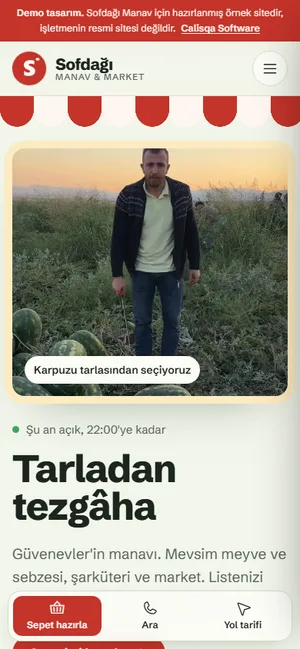
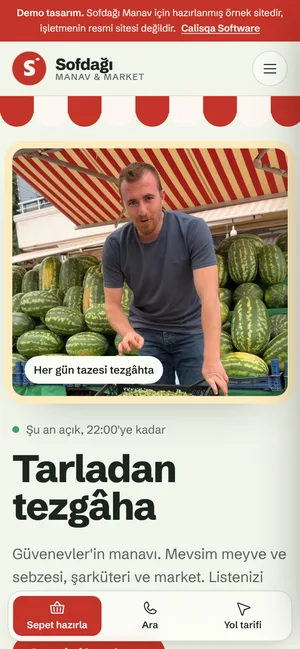
Sofdağı: bıçaklı tarla fotoğrafı yerine tezgâh fotoğrafı

diff --git a/sofdagi-manav/index.html b/sofdagi-manav/index.html
@@ -9,7 +9,7 @@
 <meta name="theme-color" content="#f2f5ea">
 <meta property="og:title" content="Sofdağı Manav &amp; Market | Güvenevler, Gaziantep">
 <meta property="og:description" content="Güvenevler&#x27;in manavı. Mevsim meyve ve sebzesi, şarküteri. Sepetinizi hazırlayın, WhatsApp&#x27;tan gönderin.">
-<meta property="og:image" content="img/tarla-gunbatimi.webp">
+<meta property="og:image" content="img/tezgah-karpuz.webp">
 <link rel="icon" href="img/logo.webp">
 <link rel="preconnect" href="https://fonts.googleapis.com">
 <link rel="preconnect" href="https://fonts.gstatic.com" crossorigin>
@@ -18,7 +18,7 @@
 <link rel="stylesheet" href="https://unpkg.com/@phosphor-icons/web@2.1.1/src/regular/style.css">
 <link rel="stylesheet" href="https://unpkg.com/@phosphor-icons/web@2.1.1/src/fill/style.css">
 <link rel="stylesheet" href="assets/style.css">
-<link rel="preload" as="image" href="img/tarla-gunbatimi.webp">
+<link rel="preload" as="image" href="img/tezgah-karpuz.webp">
 <script type="application/ld+json">{"@context": "https://schema.org", "@type": "GroceryStore", "name": "Sofdağı Manav & Market", "telephone": "+905380800704", "address": {"@type": "PostalAddress", "streetAddress": "Güvenevler Mah. 29026 Nolu Cd. No:35/1", "addressLocality": "Şehitkamil", "addressRegion": "Gaziantep", "postalCode": "27560", "addressCountry": "TR"}, "geo": {"@type": "GeoCoordinates", "latitude": 37.091622, "longitude": 37.3368643}, "openingHours": "Mo-Su 08:00-22:00"}</script>
 </head>
 <body class="page-index">
@@ -44,7 +44,7 @@
 <div class="tente" aria-hidden="true"></div>
 <section class="hero" aria-labelledby="h1">
   <div class="wrap">
-    <div class="tall rv"><img src="img/tarla-gunbatimi.webp" alt="Gün batımında karpuz tarlasında Sofdağı'nın sahibi" fetchpriority="high"><span>Karpuzu tarlasından seçiyoruz</span></div>
+    <div class="tall rv"><img src="img/tezgah-karpuz.webp" alt="Sofdağı Manav'ın tentesi altında karpuz ve taze bakla kasaları" fetchpriority="high"><span>Her gün tazesi tezgâhta</span></div>
     <div>
       <p class="status rv" data-status><span class="dot" aria-hidden="true"></span><span>Her gün 08:00 - 22:00</span></p>
       <h1 id="h1" class="display h1 rv" style="--i:1">Tarladan tezgâha</h1>

diff --git a/sofdagi-manav/hakkimizda.html b/sofdagi-manav/hakkimizda.html
@@ -9,7 +9,7 @@
 <meta name="theme-color" content="#f2f5ea">
 <meta property="og:title" content="Hakkımızda | Sofdağı Manav">
 <meta property="og:description" content="Tarladan tezgâha: Sofdağı Manav &amp; Market&#x27;in hikâyesi ve tezgâhtan kareler.">
-<meta property="og:image" content="img/tarla-gunbatimi.webp">
+<meta property="og:image" content="img/tezgah-karpuz.webp">
 <link rel="icon" href="img/logo.webp">
 <link rel="preconnect" href="https://fonts.googleapis.com">
 <link rel="preconnect" href="https://fonts.gstatic.com" crossorigin>
@@ -64,7 +64,7 @@
     <figure class="rv"><img src="img/kavun.webp" alt="Kavunlar" loading="lazy"><figcaption>Kavun</figcaption></figure>
     <figure class="rv"><img src="img/karpuz.webp" alt="Kesilmiş karpuz" loading="lazy"><figcaption>Karpuz</figcaption></figure>
     <figure class="rv"><img src="img/fasulye.webp" alt="Taze fasulye" loading="lazy"><figcaption>Taze fasulye</figcaption></figure>
-    <figure class="rv"><img src="img/tarla-gunbatimi.webp" alt="Gün batımında tarla" loading="lazy"><figcaption>Tarlada gün batımı</figcaption></figure>
+    <figure class="rv"><img src="img/cilek-teslim.webp" alt="Kasalarla taze çilek" loading="lazy"><figcaption>Kasa kasa çilek</figcaption></figure>
   </div>
 </div></section>
 

diff --git a/sofdagi-manav/assets/style.css b/sofdagi-manav/assets/style.css
@@ -334,7 +334,7 @@ section.sec-tint.tight,section.sec-2.tight,section.sec-3.tight,section.sec-deep.
 .sec-2 .farm h2{color:var(--brand-2)}
 .hero .wrap{display:grid;grid-template-columns:.9fr 1.1fr;gap:56px;align-items:center;min-height:calc(100dvh - 160px)}
 .hero .tall{border-radius:var(--r-img);overflow:hidden;aspect-ratio:4/5;background:var(--surface-2);position:relative}
-.hero .tall img{width:100%;height:100%;object-fit:cover}
+.hero .tall img{width:100%;height:100%;object-fit:cover;object-position:50% 12%}
 .hero .tall span{position:absolute;left:16px;bottom:16px;background:var(--surface);padding:7px 12px;border-radius:999px;font-size:14px;font-weight:600}
 .hero h1{margin:14px 0 0}
 .hero .lead{margin:22px 0 30px}

diff --git a/sofdagi-manav/urunler.html b/sofdagi-manav/urunler.html
@@ -9,7 +9,7 @@
 <meta name="theme-color" content="#f2f5ea">
 <meta property="og:title" content="Ürünler | Sofdağı Manav">
 <meta property="og:description" content="Meyve, sebze, yeşillik ve şarküteri ürünleri. Sepet hazırlayıp WhatsApp&#x27;tan sipariş verin.">
-<meta property="og:image" content="img/tarla-gunbatimi.webp">
+<meta property="og:image" content="img/tezgah-karpuz.webp">
 <link rel="icon" href="img/logo.webp">
 <link rel="preconnect" href="https://fonts.googleapis.com">
 <link rel="preconnect" href="https://fonts.gstatic.com" crossorigin>

diff --git a/sofdagi-manav/iletisim.html b/sofdagi-manav/iletisim.html
@@ -9,7 +9,7 @@
 <meta name="theme-color" content="#f2f5ea">
 <meta property="og:title" content="İletişim | Sofdağı Manav">
 <meta property="og:description" content="Adres, sipariş hattı, çalışma saatleri ve yol tarifi.">
-<meta property="og:image" content="img/tarla-gunbatimi.webp">
+<meta property="og:image" content="img/tezgah-karpuz.webp">
 <link rel="icon" href="img/logo.webp">
 <link rel="preconnect" href="https://fonts.googleapis.com">
 <link rel="preconnect" href="https://fonts.gstatic.com" crossorigin>
